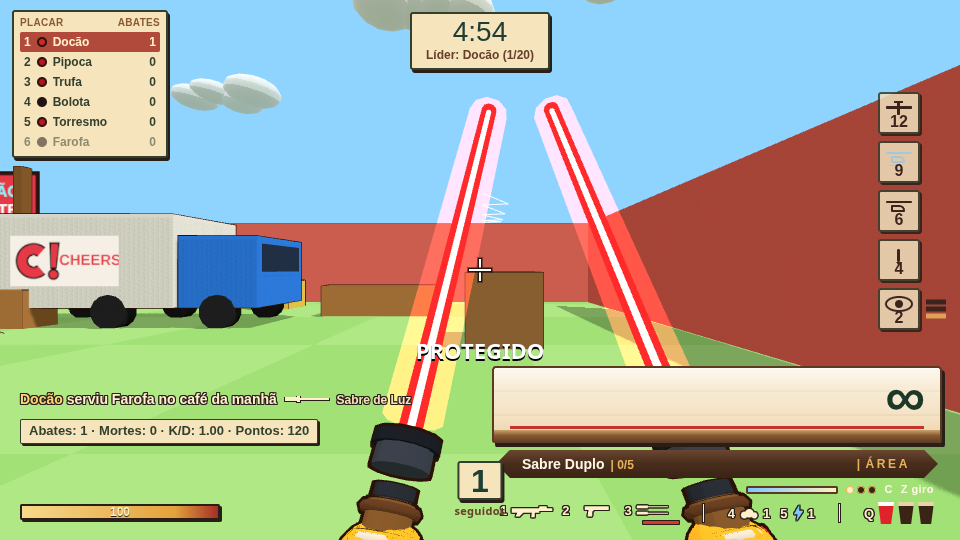
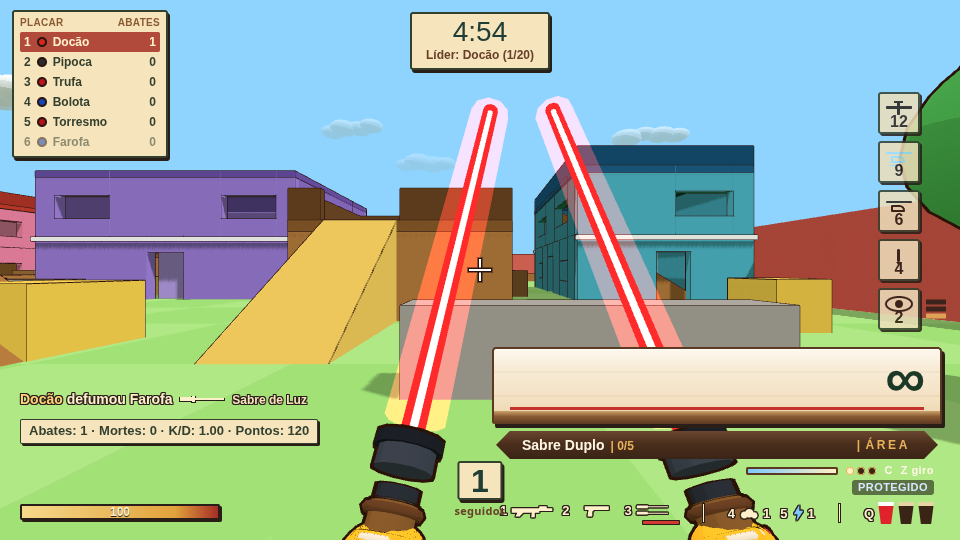
Rastro do sabre fica fino e PROTEGIDO sai da mira.
O rastro passa a ser uma linha curta na cena da arma, só no corte, na investida ou no giro, e some em 0,15 s. As faíscas ficam pequenas e longe da lente. O aviso de invulnerabilidade vai para um texto pequeno junto do HUD da arma.

diff --git a/main.js b/main.js
@@ -964,7 +964,7 @@ function updateParticles(dt) {
     else if (p.kind === 'wisp') { m.position.addScaledVector(p.vel, dt); m.scale.setScalar(p.s0 * (1 + k)); m.material.opacity = 0.3 * (1 - k); }
     else if (p.kind === 'corn') { const g = groundAt(m.position.x, m.position.z, m.position.y) + 0.04; p.vel.y -= 12 * dt; m.position.addScaledVector(p.vel, dt); if (m.position.y <= g) { m.position.y = g; p.vel.y = Math.abs(p.vel.y) > 1.5 ? -p.vel.y * 0.35 : 0; p.vel.x *= 0.6; p.vel.z *= 0.6; p.spin.multiplyScalar(0.6); } m.rotation.x += p.spin.x * dt; m.rotation.z += p.spin.z * dt; m.material.opacity = k > 0.7 ? (1 - k) / 0.3 : 1; } // pipoca quicando
     else if (p.kind === 'smoke') { p.vel.multiplyScalar(1 - 1.5 * dt); p.vel.y += 0.6 * dt; m.position.addScaledVector(p.vel, dt); m.scale.setScalar(p.s0 * (1 + k * 2.2)); m.material.opacity = 0.7 * (1 - k); }
-    else if (p.kind === 'spark') { p.vel.y -= 6 * dt; m.position.addScaledVector(p.vel, dt); m.material.opacity = 1 - k; m.scale.setScalar(1 - k * 0.55); }
+    else if (p.kind === 'spark') { p.vel.y -= 6 * dt; m.position.addScaledVector(p.vel, dt); m.material.opacity = 0.55 * (1 - k); m.scale.setScalar(1 - k * 0.35); }
     if (k >= 1) { scene.remove(m); if (m.material) m.material.dispose(); if (p.kind === 'flash' || p.kind === 'ring') m.geometry.dispose(); particles.splice(i, 1); }
   }
 }
@@ -2341,9 +2341,11 @@ function updateHud(dt) {
   updateHitDirs();
   $('vignette').style.opacity = Math.max(hurtLevel, p.alive && p.hp < 35 ? 0.35 + Math.sin(gameTime * 6) * 0.1 : 0);
   const cm = $('centermsg');
+  const prot = $('protmsg');
+  const shielded = !!(p.alive && gameTime < p.invulnUntil && msgTimer <= 0);
+  if (prot) { prot.textContent = shielded ? 'PROTEGIDO' : ''; prot.classList.toggle('hidden', !shielded); }
   if (!p.alive) cm.textContent = `${p.killW === W_BOMB ? 'Você explodiu com o botijão 💥' : `Você foi ${p.killW === KNIFE ? 'moggado' : 'pururucado'} por ${p.lastAttacker && p.lastAttacker !== p ? p.lastAttacker.name : '???'}${p.killW === KNIFE && p.killBack ? ' (pelas costas!)' : ''}`} · ${respawnReady(p) ? (rsSent ? 'renascendo...' : 'clique em RENASCER (ou Espaço)') : Number.isFinite(p.respawnAt) ? `renasce em ${Math.max(0, p.respawnAt - gameTime).toFixed(1)}s` : 'aguarde...'}`;
   else if (msgTimer > 0) { msgTimer -= dt; if (cm.textContent.startsWith('Você foi ')) cm.textContent = ''; } // mensagem (ex.: "Mapa: …") tem prioridade; tira o "Você foi pururucado" que sobrou de antes de nascer
-  else if (gameTime < p.invulnUntil) cm.textContent = 'PROTEGIDO';
   else cm.textContent = '';
   if (!$('tabboard').classList.contains('hidden')) $('tabboard').innerHTML = boardHtml();
 }
@@ -2783,10 +2785,10 @@ function updateFP(dt) {
     const mode = (st && st.spinUntil > gameTime) || (fp.saberMode === 'spin' && fp.actionT > 0) ? 'spin' : fp.saberMode === 'dash' && fp.actionT > 0 ? 'dash' : st && st.blocking && fp.actionT <= 0 ? 'block' : fp.saberMode === 'fin' && fp.actionT > 0 ? 'fin' : '';
     if (g.userData.twin) { poseKnight(g, mode === 'spin' || fp.saberSide === 0 ? k : 0, 1, true, mode); poseKnight(g.userData.twin, mode === 'spin' || fp.saberSide === 1 ? k : 0, -1, true, mode); }
     else poseKnight(g, k, 1, false, mode);
-    const hot = Math.min(1, Math.hypot(p.vel.x, p.vel.z) / SPEED * 0.55 + (fp.actionT > 0 ? 0.7 : 0) + (st && st.blocking ? 0.35 : 0));
+    const hot = Math.min(1, Math.hypot(p.vel.x, p.vel.z) / SPEED * 0.2 + (fp.actionT > 0 ? 0.4 : 0) + (st && st.blocking ? 0.18 : 0));
     for (const hold of g.userData.twin ? [g, g.userData.twin] : [g]) {
       const glow = hold.userData.glow;
-      if (glow && glow.material) glow.material.opacity = 0.22 + hot * 0.5;
+      if (glow && glow.material) glow.material.opacity = 0.2 + hot * 0.18; // no máximo ~0,38: o brilho não vira uma mancha na mira
     }
     if (ins.twist) { g.rotateZ(ins.twist); if (g.userData.twin) g.userData.twin.rotateZ(-ins.twist); } // inspecionar: torce o cabo (o poseKnight reescreve o quaternion todo quadro)
   }
@@ -3052,43 +3054,73 @@ function resetAds() { $('scope').classList.add('hidden'); crossEl.classList.remo
 
 // ---------------- Jogador ----------------
 const fwd = new V3(), right = new V3();
-const sparkGeo = new THREE.SphereGeometry(0.04, 5, 4);
-function saberSparks(pos, n = 8) {
+const sparkGeo = new THREE.SphereGeometry(0.015, 5, 4);
+function saberSparks(pos, n = 4) {
   if (!pos) return;
-  const p = pos.clone ? pos.clone() : new V3(pos.x || 0, pos.y || 0, pos.z || 0);
-  for (let i = 0; i < n; i++) {
-    const m = new THREE.Mesh(sparkGeo, new THREE.MeshBasicMaterial({ color: i % 2 ? 0xfff1c2 : 0x7ec8ff, transparent: true, blending: THREE.AdditiveBlending, depthWrite: false }));
-    m.position.copy(p); scene.add(m);
-    particles.push({ mesh: m, vel: new V3(rand(-1, 1), rand(0.15, 1.2), rand(-1, 1)).normalize().multiplyScalar(rand(2.5, 7)), life: rand(0.16, 0.34), t: 0, kind: 'spark' });
+  let p0 = pos.clone ? pos.clone() : new V3(pos.x || 0, pos.y || 0, pos.z || 0);
+  const camDist = p0.distanceTo(camera.position);
+  if (camDist < 1.25) {
+    const away = p0.clone().sub(camera.position);
+    if (away.lengthSq() < 1e-6) away.set(-Math.sin(player && player.yaw || 0), 0.15, -Math.cos(player && player.yaw || 0));
+    p0 = camera.position.clone().addScaledVector(away.normalize(), 1.35);
+  }
+  const count = Math.min(n, 5);
+  const nearCam = camDist < 1.6;
+  for (let i = 0; i < count; i++) {
+    const m = new THREE.Mesh(sparkGeo, new THREE.MeshBasicMaterial({ color: i % 2 ? 0xfff1c2 : 0xffc4d0, transparent: true, opacity: 0.55, blending: THREE.AdditiveBlending, depthWrite: false }));
+    m.position.copy(p0); scene.add(m);
+    const vel = new V3(rand(-1, 1), rand(0.35, 1.1), rand(-1, 1)).normalize().multiplyScalar(rand(1.1, 2.6));
+    if (nearCam) { const away = p0.clone().sub(camera.position); if (away.lengthSq() > 1e-4 && vel.dot(away) < 0) vel.addScaledVector(away.normalize(), 2); }
+    particles.push({ mesh: m, vel, life: rand(0.08, 0.14), t: 0, kind: 'spark' });
   }
 }
-let saberTrail = null; const saberTrailPts = []; const _tip = new V3();
+// Rastro fino na cena da arma (mesmo espaço da lâmina). Some em ~0,15 s. Não vai pro mundo: uma linha na frente da câmera cobria o alvo.
+const SABER_TRAIL_LIFE = 0.15;
+const saberTrailLines = [null, null];
+const saberTrailPts = [[], []];
+const _tip = new V3();
+function saberTrailLine(i) {
+  if (saberTrailLines[i]) return saberTrailLines[i];
+  const geo = new THREE.BufferGeometry();
+  geo.setAttribute('position', new THREE.BufferAttribute(new Float32Array(16 * 3), 3));
+  const line = new THREE.Line(geo, new THREE.LineBasicMaterial({ color: 0xffd5e0, transparent: true, opacity: 0.28, blending: THREE.AdditiveBlending, depthWrite: false, depthTest: true }));
+  line.frustumCulled = false; line.visible = false; line.renderOrder = 6; fpScene.add(line);
+  saberTrailLines[i] = line; return line;
+}
 function sampleSaberTrail() {
-  if (!saberTrail) {
-    const geo = new THREE.BufferGeometry();
-    geo.setAttribute('position', new THREE.BufferAttribute(new Float32Array(48 * 3), 3));
-    saberTrail = new THREE.Line(geo, new THREE.LineBasicMaterial({ color: 0xb7e4ff, transparent: true, opacity: 0.8, blending: THREE.AdditiveBlending, depthWrite: false }));
-    saberTrail.frustumCulled = false; saberTrail.visible = false; scene.add(saberTrail);
-  }
-  const p = player, g = p && fp.guns[p.weapon];
-  const hot = p && p.alive && isSaber(p.weapon) && g && (Math.hypot(p.vel.x, p.vel.z) > 2.2 || fp.actionT > 0 || (p.saber && (p.saber.blocking || p.saber.dashUntil > gameTime)));
-  if (!hot) { if (saberTrailPts.length) saberTrailPts.shift(); }
-  else {
+  const p = player, g = p && fp.guns[p.weapon], st = p && p.saber;
+  const now = gameTime;
+  const hot = !!(p && p.alive && isSaber(p.weapon) && g && g.visible && fp.root.visible && (fp.actionT > 0 || (st && (st.dashUntil > now || st.spinUntil > now))));
+  if (hot) {
     fp.root.updateWorldMatrix(true, true);
     const holds = g.userData.twin ? [g, g.userData.twin] : [g];
-    for (const h of holds) { _tip.set(0, 0, -0.83); h.localToWorld(_tip); _tip.applyQuaternion(camera.quaternion).add(camera.position); saberTrailPts.push(_tip.clone()); }
-    while (saberTrailPts.length > 18) saberTrailPts.shift();
+    const spin = st && st.spinUntil > now;
+    holds.forEach((h, i) => {
+      if (holds.length > 1 && !spin && fp.saberMode !== 'dash' && fp.saberSide !== i) return;
+      _tip.set(0, 0, -0.83); h.localToWorld(_tip);
+      if (_tip.z > -0.45) return; // ponta encostada na lente: não risca a tela
+      const bag = saberTrailPts[i];
+      const last = bag[bag.length - 1];
+      const dist = last ? last.p.distanceTo(_tip) : 1;
+      if (last && dist > 1.4) bag.length = 0; // a pose pulou: não liga dois pontos distantes
+      if (!last || dist > 0.015) bag.push({ p: _tip.clone(), t: now });
+    });
   }
-  const attr = saberTrail.geometry.attributes.position, arr = attr.array;
-  const n = saberTrailPts.length;
-  saberTrail.visible = n > 1;
-  for (let i = 0; i < 48; i++) {
-    const q = saberTrailPts[Math.min(n - 1, i)] || _tip;
-    arr[i * 3] = q.x; arr[i * 3 + 1] = q.y; arr[i * 3 + 2] = q.z;
+  for (let i = 0; i < 2; i++) {
+    const bag = saberTrailPts[i];
+    while (bag.length && now - bag[0].t > SABER_TRAIL_LIFE) bag.shift();
+    const line = saberTrailLine(i), attr = line.geometry.attributes.position, arr = attr.array;
+    const n = Math.min(bag.length, 16), start = bag.length - n;
+    line.visible = n > 1;
+    for (let k = 0; k < 16; k++) {
+      const q = bag[Math.min(bag.length - 1, start + Math.max(0, k))] ;
+      const v = q ? q.p : _tip;
+      arr[k * 3] = v.x; arr[k * 3 + 1] = v.y; arr[k * 3 + 2] = v.z;
+    }
+    line.geometry.setDrawRange(0, n);
+    attr.needsUpdate = true;
+    if (n > 1) line.geometry.computeBoundingSphere();
   }
-  saberTrail.geometry.setDrawRange(0, Math.max(n, 0));
-  attr.needsUpdate = true;
-  if (n > 1) saberTrail.geometry.computeBoundingSphere();
 }
 function saberSpace(e) { return e && e.isPlayer ? 'aim' : 'model'; }
 function saberForward(e) {
@@ -3108,7 +3140,7 @@ function swingSaber(p) {
   const forward = saberForward(p);
   if (online && p.isPlayer) { netEv(['sw', v3a(origin), [forward.x, 0, forward.z], +(performance.now() / 1000).toFixed(3)]); return sw; }
   const hit = saberArcLocal(p, origin, forward, sw.dmg, sw.reach, sw.arc);
-  if (hit) { saberSfx.clash(); saberSparks(origin.clone().add(new V3(forward.x, 0, forward.z).multiplyScalar(1.1)), sw.idx === 2 ? 14 : 8); }
+  if (hit) saberSfx.clash();
   return sw;
 }
 function saberArcLocal(p, origin, forward, dmg, reach, arc) {
@@ -3120,7 +3152,7 @@ function saberArcLocal(p, origin, forward, dmg, reach, arc) {
     targets.push({ e, x: e.pos.x, z: e.pos.z });
   }
   const hits = targetsInArc({ x: eye.x, z: eye.z }, forward, reach, arc, targets);
-  for (const h of hits) damage(h.e, dmg, p, p.weapon, false);
+  for (const h of hits) { damage(h.e, dmg, p, p.weapon, false); if (p.isPlayer) saberSparks(center(h.e, 1.05), 4); }
   return hits.length > 0;
 }
 function saberRadiusLocal(p, dmg, radius) {

diff --git a/style.css b/style.css
@@ -1275,6 +1275,8 @@ body.invout #deathpick,body.invout #stamp,body.invout #centermsg{display:none!im
 #hud #saberpips i.on{background:#fff1c2}
 #hud #saberc,#hud #saberz{font:800 11px/1 "Trebuchet MS",Arial,sans-serif;letter-spacing:.04em;color:#d7e7ff;opacity:.45}
 #hud #saberc.ready,#hud #saberz.ready{opacity:1;color:#fff6e4}
+#hud #protmsg{align-self:flex-end;margin:4px 8px 0 0;padding:2px 6px;border-radius:3px;background:rgba(20,14,10,.55);font:800 11px/1 "Trebuchet MS",Arial,sans-serif;letter-spacing:.04em;color:#d7e7ff;pointer-events:none}
+#hud #protmsg.hidden{display:none}
 #hud #gear{
   display:flex;align-items:center;justify-content:space-between;flex-wrap:nowrap;
   gap:8px;margin:7px 0 0;padding:0 8px;background:transparent;color:var(--cream)

diff --git a/index.html b/index.html
@@ -79,6 +79,7 @@
       <div id="saberpips"><i></i><i></i><i></i></div>
       <span id="saberc"></span><span id="saberz"></span>
     </div>
+    <div id="protmsg" class="hidden"></div>
     <div id="gear">
       <div id="slots"><span id="slot1" class="slot active"><b>1</b></span><span id="slot2" class="slot"><b>2</b></span><span id="slot3" class="slot"><b>3</b></span></div>
       <span class="gsep" aria-hidden="true"></span>
